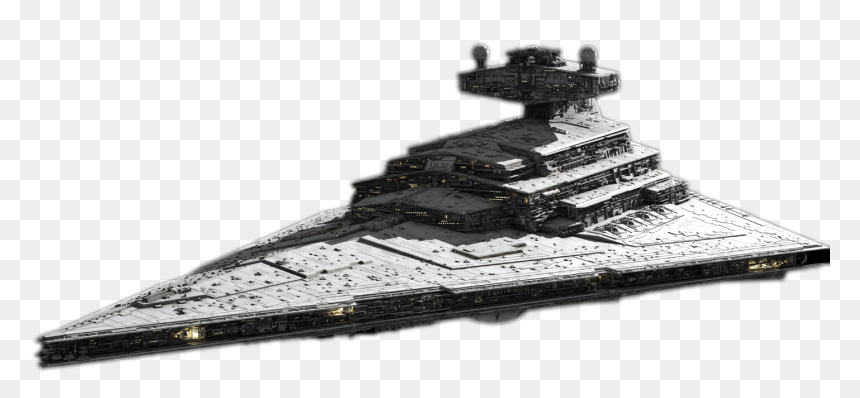
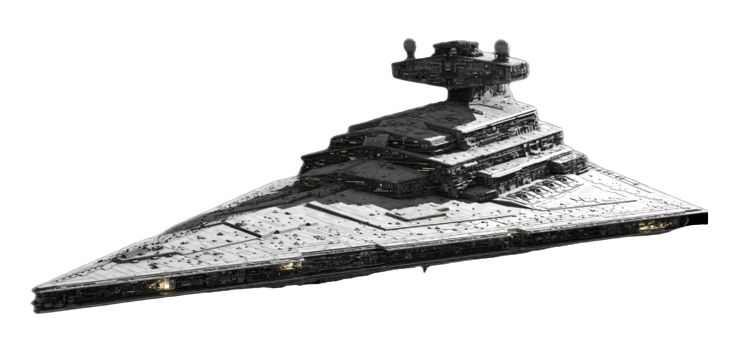
tinderish ongoing

diff --git a/lib/views/tinderish/swipes.dart b/lib/views/tinderish/swipes.dart
@@ -1,0 +1,86 @@
+
+import 'dart:convert';
+
+import 'package:aformacproject/service/http_service_custom.dart';
+import 'package:aformacproject/service/url_const.dart';
+import 'package:aformacproject/widgets/text_circular_progress.dart';
+import 'package:flutter/material.dart';
+import 'package:http/http.dart';
+
+import '../../entity/tinderish/profile.dart';
+import '../../widgets/color/custom_color.dart';
+import '../../widgets/popupmenu.dart';
+
+class Swipes extends StatefulWidget {
+
+  const Swipes({Key? key}) : super(key: key);
+
+  @override
+  State<Swipes> createState() => _SwipesState();
+}
+
+class _SwipesState extends State<Swipes> {
+
+  Profile? profile;
+  Future<Response>? profileResponse;
+
+  @override
+  void initState() {
+    super.initState();
+    profileResponse = HttpServiceCustom().getRequest(
+        UrlConst.urlRandomUser, '/api', null
+    );
+  }
+
+  @override
+  Widget build(BuildContext context) {
+    return Scaffold(
+      appBar: AppBar(
+        title: const Text('Swiping'),
+        actions: const [
+          PopupMenu()
+        ],
+      ),
+      body: FutureBuilder(
+        future: profileResponse, // Future<Response>
+        builder: (BuildContext context, AsyncSnapshot<dynamic> futureResponse) {
+          if (futureResponse.hasData) {
+            // futureResponse.data => contenu de la future, ici une response
+            Profile profile = Profile.fromJson(jsonDecode(futureResponse.data.body));
+            return Column(
+                children: [
+                  Container(
+                    margin: const EdgeInsets.only(top: 12),
+                    child: Row(
+                      mainAxisAlignment: MainAxisAlignment.center,
+                      children: [
+                        Text(
+                          profile.firstName,
+                          style: const TextStyle(
+                              fontSize: 28,
+                              color: CustomColor.bluePokemon
+                          ),
+                        ),
+                      ],
+                    ),
+                  ),
+                  Row(
+                    mainAxisAlignment: MainAxisAlignment.center,
+                    children: [
+                      Container(
+                        child: Image.network(profile.largeImage),
+                        margin: const EdgeInsets.only(top: 12),
+                      )
+                    ],
+                  ),
+                ]
+            );
+          }
+          return const TextCircularProgress(
+              text: 'Fetching profile, please wait...'
+          );
+        },
+      ),
+    );
+  }
+}

diff --git a/lib/views/homepage.dart b/lib/views/homepage.dart
@@ -1,0 +1,71 @@
+
+
+import 'package:aformacproject/views/pokedex/pokedex_index.dart';
+import 'package:aformacproject/views/tinderish/swipes.dart';
+import 'package:aformacproject/widgets/button_pokemon.dart';
+import 'package:aformacproject/widgets/popupmenu.dart';
+import 'package:flutter/material.dart';
+
+class HomePage extends StatelessWidget {
+
+  const HomePage({Key? key}) : super(key: key);
+
+  // This widget is the root of your application.
+  @override
+  Widget build(BuildContext context) {
+    return Scaffold(
+      // Définit le titre de la page où je me situe
+        appBar: AppBar(
+          title: const Text('Accueil'),
+          actions: const [
+            PopupMenu()
+          ],
+        ),
+        // Container afin d'englober le contenu de ma page
+        body: Container(
+          // Margin afin que les boutons ne soient pas collés à l'AppBar du haut
+          margin: const EdgeInsets.only(top: 10),
+          // Row afin de center horizontalement mes éléments
+          child: Row(
+              mainAxisAlignment: MainAxisAlignment.center,
+              children: [
+                // Colmun afin de placer mes éléments en haut de la page
+                Column(
+                  mainAxisAlignment: MainAxisAlignment.start,
+                  children: [
+                    // Bouton qui lorsque l'on clique dessus, change la page sur laquelle on se trouve
+                    // Et va vers la bonne version du Pokedex
+                    ButtonPokemon(
+                      text: 'Les Pokédex',
+                      onPressed: () => Navigator.push(
+                        context,
+                        MaterialPageRoute(
+                            builder: (context) => const PokedexIndex()
+                        )
+                      ),
+                    ),
+                    ButtonPokemon(
+                      text: 'TinderIsh',
+                      onPressed: () => Navigator.push(
+                          context,
+                          MaterialPageRoute(
+                            // Widget d'affichage d'un Pokedex
+                            // Il prend en paramètre un objet Pokedex
+                            // On lui créé directement à la volée
+                              builder: (context) => const Swipes()
+                          )
+                      ),
+                    ),
+                    Image.asset(
+                        'assets/images/star-destroyer.png',
+                        width: 280
+                    )
+                  ],
+                ),
+              ]
+          ),
+        )
+    );
+  }
+
+}

diff --git a/lib/service/http_service_custom.dart b/lib/service/http_service_custom.dart
@@ -1,0 +1,60 @@
+
+import 'dart:io';
+import 'package:http/http.dart';
+import 'package:http/io_client.dart';
+
+class HttpServiceCustom {
+
+  final http = IOClient(HttpClient());
+
+  /// Différents type de requêtes Http :
+  /// GET
+  /// POST
+  /// PUT
+  /// PATCH
+  /// DELETE
+
+  Future<Response> getRequest(String rawUrl, String route, param) {
+    Uri uri = Uri.https(rawUrl, route);
+    if (param != null) {
+      uri = Uri.https(rawUrl, route, param);
+    }
+
+    return http.get(
+      uri,
+      headers: <String, String>{
+        'Content-Type': 'application/json',
+      },
+    );
+  }
+
+  /// POST : est utilisé pour créer des entités
+  /// Souvent dans le json (body), id n'existe pas !
+  /// param contient le json de l'objet à ajouter
+  /// {name: 'toto', email: 'toto@toto.fr'}
+  Future<Response> postRequest(String rawUrl, String route, param) {
+    return http.post(
+      Uri.https(rawUrl, route),
+      body: param,
+      headers: <String, String>{
+        'Content-Type': 'application/json',
+      },
+    );
+  }
+
+  /// PUT : est utilisé pour modifier des entités
+  /// Souvent dans le json (body), id existe, afin d'indiquer en code derrière
+  /// que l'entité doit être modifiée
+  /// param contient le json de l'objet à ajouter
+  /// {id: 56, name: 'toto', email: 'toto@toto.fr'}
+  Future<Response> putRequest(String rawUrl, String route, param) {
+    return http.put(
+      Uri.https(rawUrl, route),
+      body: param,
+      headers: <String, String>{
+        'Content-Type': 'application/json',
+      },
+    );
+  }
+
+}

diff --git a/lib/entity/tinderish/profile.dart b/lib/entity/tinderish/profile.dart
@@ -1,0 +1,48 @@
+
+import 'dart:convert';
+
+import 'package:flutter/material.dart';
+
+Profile recipeFromJson(String str) => Profile.fromJson(json.decode(str));
+String recipeToJson(Profile data) => json.encode(data.toJson());
+
+class Profile {
+
+  IconData gender;
+  String firstName;
+  String city;
+  int age;
+  String largeImage;
+  String mediumImage;
+
+  Profile({
+    required this.gender,
+    required this.firstName,
+    required this.city,
+    required this.age,
+    required this.largeImage,
+    required this.mediumImage
+  });
+
+  factory Profile.fromJson(Map<dynamic, dynamic> json) {
+    var jsonData = json["results"][0];
+    return Profile(
+      gender: jsonData["gender"] == 'female' ? Icons.female : Icons.male,
+      firstName: jsonData["name"]["first"],
+      city: jsonData["location"]["city"],
+      age: jsonData["dob"]["age"],
+      largeImage: jsonData["picture"]["large"],
+      mediumImage: jsonData["picture"]["medium"],
+    );
+  }
+
+  Map<dynamic, dynamic> toJson() => {
+    "gender": gender == Icons.female ? 'female' : 'male',
+    "firstName": firstName,
+    "city": city,
+    "age": age,
+    "largeImage": largeImage,
+    "mediumImage": mediumImage,
+  };
+
+}

diff --git a/lib/main.dart b/lib/main.dart
@@ -1,3 +1,4 @@
+import 'package:aformacproject/views/homepage.dart';
 import 'package:aformacproject/views/pokedex/pokedex_index.dart';
 import 'package:aformacproject/widgets/color/custom_color.dart';
 import 'package:flutter/material.dart';
@@ -28,7 +29,7 @@ class MyApp extends StatelessWidget {
             CustomColor.bluePokemon
         ),
       ),
-      home: const PokedexIndex(),
+      home: const HomePage(),
     );
   }
 

diff --git a/lib/service/url_const.dart b/lib/service/url_const.dart
@@ -1,0 +1,8 @@
+
+class UrlConst {
+
+  static const String urlRandomUser = "randomuser.me";
+  static const String urlPokeApi = 'pokeapi.co/api/v2';
+  static const String urlPokemon = '/pokemon';
+
+}
